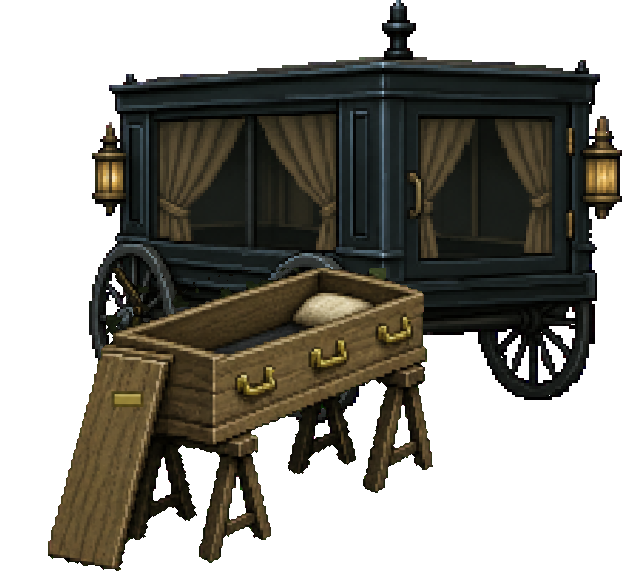
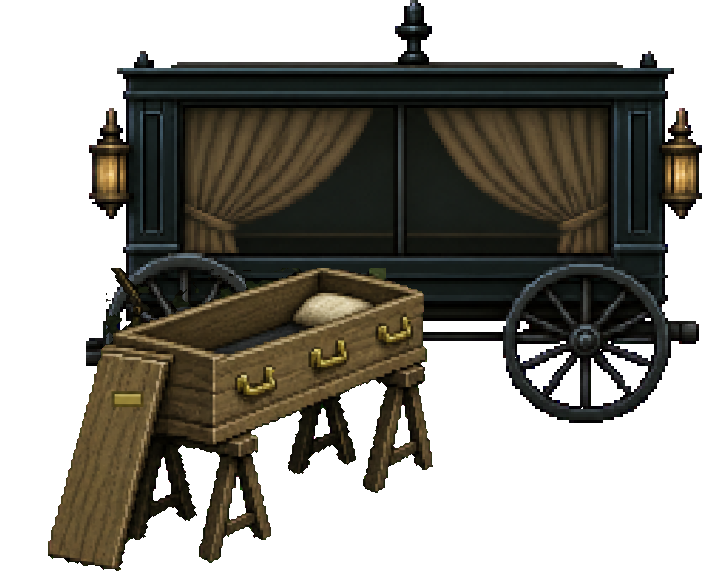
The graveside hearse side-on, in line with Grievance
Tyler, of the mule at a right angle to the three-quarter-rear hearse: "Redraw the hearse
side-on". Operation 2 of room-31-hearse-match (its correction) draws the gate's hearse
side-on, empty, front to the left; its ground shafts trimmed, its front set at her
traces, still behind the coffin. Record for the wiring: x 501, frame [0, 0, 702, 578].
All tests pass.

Lesson: none -- art not yet wired, corrected on Tyler's look; no code defect is fixed.

Claude-Session: https://claude.ai/code/session_01FXbCupzwLJAEr7fqqWYP8A

diff --git a/tools/art/acts-two-to-four-cut.py b/tools/art/acts-two-to-four-cut.py
@@ -164,6 +164,11 @@ def sign():
 
 
 HEARSE_GROUND = (505, 578)  # the hearse's wheels on the ground just behind the coffin (room x of its centre, y of its wheels).
+HEARSE_OP = 2               # Tyler, 2026-11-16, of the mule at a right angle to the three-quarter-rear hearse: "Redraw the
+                            # hearse side-on". Operation 2 (the asset's correction) is the gate's hearse side-on, empty,
+                            # its front to the left, in line with Grievance. Operation 1 (three-quarter rear) is kept.
+SHAFTS_END = 405            # operation 2's columns left of its front lamp: the shafts, trimmed
+HEARSE_LEFT = 236           # room x of its front end, at Grievance's traces (her sheet's right edge is at x ~255)
                             # Grievance, the mule (content/ambient/funeral-grievance.json, x 129), stands hitched at its
                             # front, clear of it: at x 330 the new, longer hearse hid her whole. Her sprite carries a strip
                             # of the OLD hearse beside her (x ~215-255); from x 205 the new hearse covers that strip.
@@ -177,8 +182,10 @@ def hearse():
     sheet, so the sheet grows; its foot row stays y 733 and the record's new x and frame are reported for the wiring."""
     ns, bt = helpers()
     room = bt['load']('content/rooms/funeral.json'); p = room['props'][0]
-    a = np.asarray(Image.open(R(f'{ST}/hearse/op-1.png')).convert('RGB')).astype(int)
+    a = np.asarray(Image.open(R(f'{ST}/hearse/op-{HEARSE_OP}.png')).convert('RGB')).astype(int)
     op = ns['opaque_rgb'](a)
+    if HEARSE_OP == 2:
+        op[:, :SHAFTS_END] = False      # the shafts it drew lying ahead of it: Grievance's own traces carry the hitch
     from scipy import ndimage as ndi
     lab, n = ndi.label(op); sizes = ndi.sum(op, lab, range(1, n + 1))
     op = np.isin(lab, [i + 1 for i, z in enumerate(sizes) if z >= 200])
@@ -187,6 +194,10 @@ def hearse():
     crop[..., :3] = a[ys.min():ys.max() + 1, xs.min():xs.max() + 1]; crop[..., 3] = np.where(op[ys.min():ys.max() + 1, xs.min():xs.max() + 1], 255, 0)
     man = bt['curve_man'](room, *HEARSE_GROUND)
     H = round(GATE_RATIO * man); k = H / crop.shape[0]; Wd = round(crop.shape[1] * k)
+    if HEARSE_OP == 2:                  # side-on: its front (left) end set just behind Grievance's traces
+        HG = (HEARSE_LEFT + Wd // 2, HEARSE_GROUND[1])
+    else:
+        HG = HEARSE_GROUND
     pm = crop.astype(float); pm[..., :3] *= pm[..., 3:4] / 255
     sm = np.asarray(Image.fromarray(pm.astype(np.uint8)).resize((Wd, H), Image.BOX)).astype(float)
     al = sm[..., 3:4]; rgb = np.where(al > 0, sm[..., :3] * 255 / np.maximum(al, 1), 0)
@@ -196,7 +207,7 @@ def hearse():
     hi = hearse_img.astype(int)
     pocket = (hi[..., 3] > 0) & (hi[..., 0] > hi[..., 1] + 25) & (hi[..., 2] > hi[..., 1] + 25)
     hearse_img[pocket] = 0
-    hx0, hy0 = HEARSE_GROUND[0] - Wd // 2, HEARSE_GROUND[1] - H + 1
+    hx0, hy0 = HG[0] - Wd // 2, HG[1] - H + 1
     # item 2's coffin group: the warm wood of the prop below the old hearse's wheel line, whole pieces, holes filled
     cp = np.asarray(Image.open(R(f'{ST}/hearse/coffin-open-prop.png')).convert('RGBA')).astype(int)
     cx0, cy0 = p['x'] - p['frame'][2] // 2, p['y'] - cp.shape[0] + 1      # the old sheet's left edge (it grew rightward)

diff --git a/reference/acts-two-to-four-art/handback.md b/reference/acts-two-to-four-art/handback.md
@@ -4,7 +4,7 @@
 
 On Tyler's instruction (2026-11-16), `art/staging/caps.json` has four new entries, each with cap 2 and quoting him: `room-32-coffin-lantern`, `room-31-coffin-open`, `room-44-seance-sign` and `room-31-hearse-match`. He authorized up to eight operations for the brief.
 
-**Four operations are spent, one per item, and no correction was needed.** That is 45,136 billed tokens:
+**Five operations are spent**: one per item, and later item 4's correction on Tyler's look (below). That is 56,918 billed tokens:
 
 | Item | Asset | Attempt | Tokens |
 |---|---|---|---|
@@ -12,9 +12,10 @@ On Tyler's instruction (2026-11-16), `art/staging/caps.json` has four new entrie
 | 2 | room-31-coffin-open | 1 | 11,915 |
 | 3 | room-44-seance-sign | 1 | 9,565 |
 | 4 | room-31-hearse-match | 1 | 11,357 |
+| 4, redrawn side-on | room-31-hearse-match | 2 | 11,782 |
 
-- **Ledger:** 448 attempts and 4,569,656 tokens against `spendTokensTotal` 4,625,000. About 55,000 is left, so the ceiling was not reached.
-- **Corrections in hand:** each asset still has its second operation.
+- **Ledger:** 449 attempts and 4,581,438 tokens against `spendTokensTotal` 4,625,000. About 43,500 is left, so the ceiling was not reached.
+- **Corrections in hand:** items 1-3 each still have their second operation; item 4 has none left.
 - **Nothing wired:** nothing in `content/` or `docs/` is touched, as the brief says; the main session wires it.
 
 Each item was generated against a frame of Thad in its own room, with Thad's ruler frame (`art/staging/act-one-art/thad-ruler.png`). Prompts and specs are `reference/acts-two-to-four-art/<item>-op-1.txt` and `.spec.json`.
@@ -101,17 +102,24 @@ Both are fixed with no new operation:
 
 **Tyler's second look:** "the horse is clearly a cut out with different color grass around it and it's not attached."
 - **The grass:** the master's green grass around her legs is cleared from her sheet, so she stands on the night plate's own blue ground. It is the green-over-blue, green-over-red pixels from her chest down; her coat and harness are neutral and stay. Any piece cut off from her body is cleared too. That makes 36,648 px cleared a frame in all, the same in every frame.
-- **Attached:** the hearse's front comes left to meet her (its left edge at room x 239), so her traces run into its front wheel. Its wheels are at (505, 578), still set back behind the coffin.
+- **Attached:** the hearse's front comes left to meet her (its left edge at room x 239), so her traces run into its front wheel. Its wheels were at (505, 578); superseded below, still set back behind the coffin.
+
+**Tyler's third look:** "It seems weird the have the horse standing at like a 90 degree angle to the carriage, no?" Asked which to redraw, he chose **"Redraw the hearse side-on"**.
+- **Operation 2**, the asset's correction, drew the gate's hearse side-on, as the gate draws it. It is empty, front to the left, in line with Grievance.
+- **The shafts:** it drew them lying on the ground ahead of the hearse. They are trimmed (`SHAFTS_END`), because Grievance's own traces carry the hitch.
+- **Position:** its front end is set at room x 236, at her traces, with its wheels at y 578, still set back behind the coffin.
+- **Size:** it is still 1.292 of the man at its wheels, so 616 x 423.
+- **Departure from the brief:** the brief asked for three-quarter rear. Operation 1's three-quarter-rear drawing is kept in staging (`HEARSE_OP = 1` in the tool builds it again).
 
 **The sheet changed size, so the record must change with it.** These are wiring numbers, not done here:
 
 | | x | y | frame |
 |---|---|---|---|
 | was | 361 | 733 | `[0, 0, 422, 578]` |
-| **now** | **461** | 733 | **`[0, 0, 622, 578]`** |
+| **now** | **501** | 733 | **`[0, 0, 702, 578]`** |
 
 - The coffin group lands where it was, its left edge unmoved.
-- The hearse spans x 239-772, clear of the grave.
+- The hearse spans x 236-852. Its rear end stands behind the grave's far side.
 
 **Tests.** "No prop paints the plate over a figure behind it" now passes, both with the record as it is and with the new record applied (tried, then reverted). The overlap that tripped it was the dark hearse over the old-hearse strip, and that strip is gone.
 
